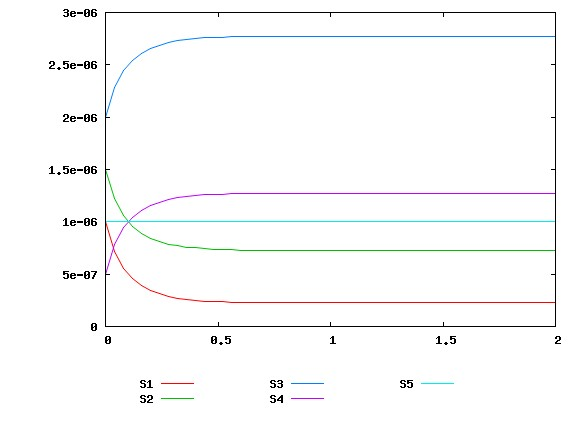
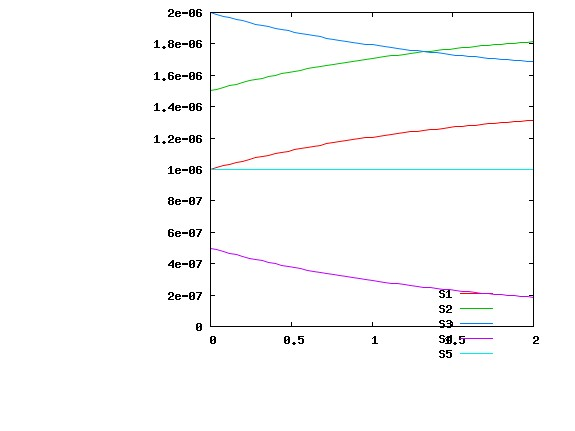
corrected data identified as incorrect during hackathon NOTE: these results have been verified with Copasi and iBioSim

diff --git a/cases/semantic/00385/00385-model.m b/cases/semantic/00385/00385-model.m
@@ -56,6 +56,6 @@ addReaction[ S1 + S2 -> S3, reversible -> False,
 addReaction[ S3 -> S1 + S2, reversible -> False,
 	     kineticLaw -> k2 * S3 * S4 * C ];
 addEvent[ trigger -> S2 < S4, eventAssignment -> S1->2/10^3 ];
-addEvent[ trigger -> S3 > 2/(10^15), eventAssignment -> S3->1/10^3 ];
+addEvent[ trigger -> S3 > 2/(10^3), eventAssignment -> S3->1/10^3 ];
 
 makemodel[]
